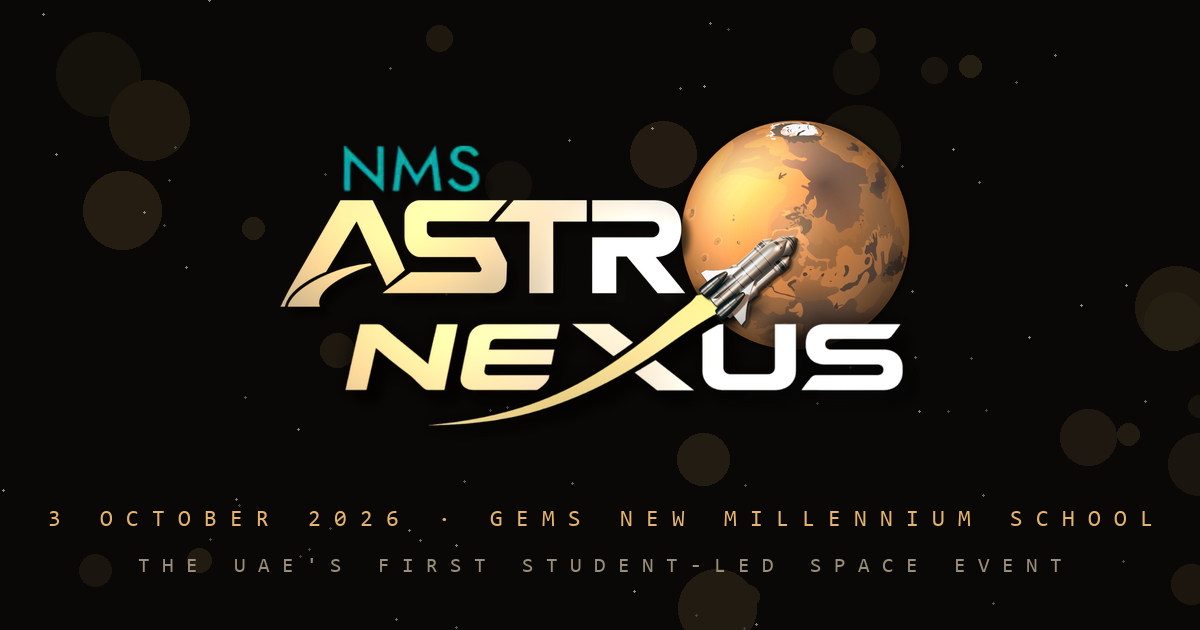
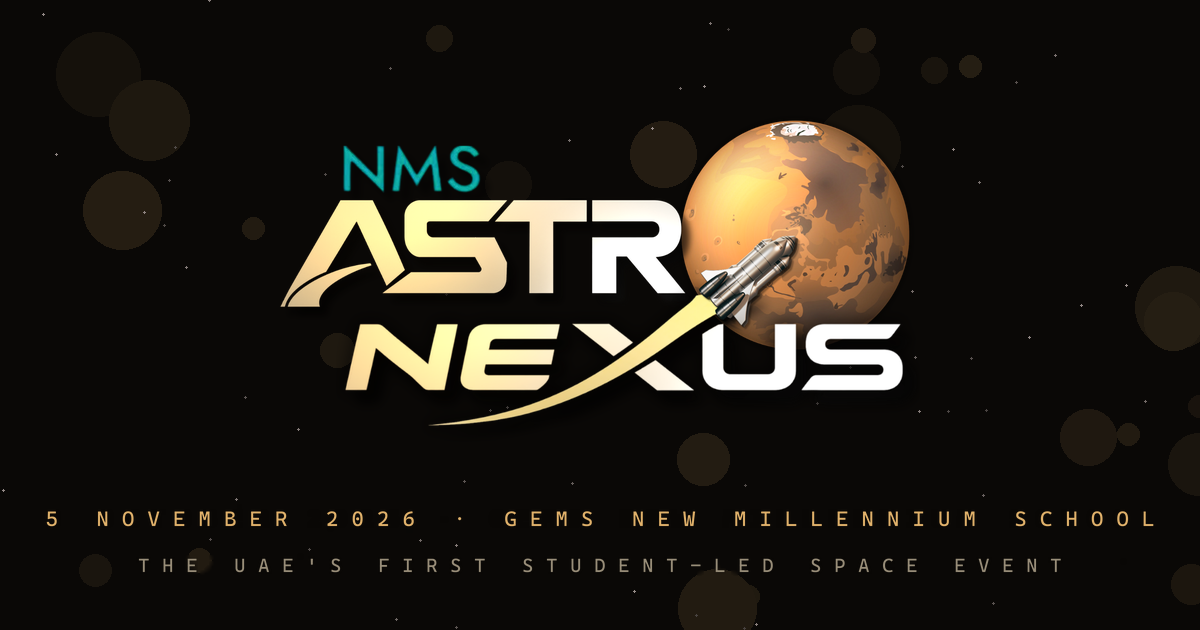
Add files via upload

diff --git a/index.html b/index.html
@@ -4,17 +4,17 @@
 <meta charset="UTF-8">
 <meta name="viewport" content="width=device-width, initial-scale=1.0">
 <title>AstroNexus</title>
-<meta name="description" content="NMS AstroNexus '26 — the UAE's first student-led space event. Four challenges, Grades 6–12. 3 October 2026, 8:00 AM – 1:30 PM, GEMS New Millennium School.">
+<meta name="description" content="NMS AstroNexus '26 — the UAE's first student-led space event. Four challenges, Grades 6–12. 5 November 2026, 8:00 AM – 1:30 PM, GEMS New Millennium School.">
 <meta property="og:type" content="website">
 <meta property="og:site_name" content="NMS AstroNexus">
 <meta property="og:title" content="NMS AstroNexus '26">
-<meta property="og:description" content="The UAE's first student-led space event — four challenges, Grades 6–12. 3 October 2026, GEMS New Millennium School.">
+<meta property="og:description" content="The UAE's first student-led space event — four challenges, Grades 6–12. 5 November 2026, GEMS New Millennium School.">
 <link rel="canonical" href="https://astronexusnms.com/">
 <meta property="og:url" content="https://astronexusnms.com/">
-<meta property="og:image" content="https://astronexusnms.com/og-card.png">
+<meta property="og:image" content="https://astronexusnms.com/og-card.png?v=2">
 <meta property="og:image:width" content="1200">
 <meta property="og:image:height" content="630">
-<meta property="og:image:alt" content="NMS AstroNexus '26 - 3 October 2026, GEMS New Millennium School">
+<meta property="og:image:alt" content="NMS AstroNexus '26 - 5 November 2026, GEMS New Millennium School">
 <meta name="twitter:card" content="summary_large_image">
 <script type="application/ld+json">
 {"@context":"https://schema.org","@type":"Event","name":"NMS AstroNexus '26","url":"https://astronexusnms.com/",
@@ -1255,7 +1255,7 @@
         <a class="wipe" href="launchx.html">LaunchX</a>
         <a class="wipe" href="helioscale.html">HelioScale</a>
       </div>
-      <span>3 October 2026 &middot; GEMS New Millennium School &middot; Al Amal Space Club</span>
+      <span>5 November 2026 &middot; GEMS New Millennium School &middot; Al Amal Space Club</span>
     </div>
   </div>
 </footer>

diff --git a/starbase.html b/starbase.html
@@ -507,7 +507,7 @@ if (firebaseConfig.apiKey) {
   let userCb;
   api = {
     demo: true,
-    onUser: cb => { userCb = cb; let u = null; try { u = sessionStorage.getItem('anx-user'); } catch {} cb(u); },
+    onUser: cb => { userCb = cb; let u = null; try { u = sessionStorage.getItem('anx-user'); } catch {} setTimeout(() => cb(u)); },  // async like Firebase, so the whole script has loaded first
     login: async (id, pw) => { const L = read().logins || {}; if (!(ROLES.includes(id) && pw.trim().toLowerCase() === 'demo') && !(L[id] && L[id] === pw)) throw new Error('auth/invalid-credential'); try { sessionStorage.setItem('anx-user', id); } catch {} userCb(id); },
     logout: async () => { try { sessionStorage.removeItem('anx-user'); } catch {} userCb(null); },
     anon: async () => {},

diff --git a/helioscale.html b/helioscale.html
@@ -546,7 +546,7 @@
 
 <main class="page">
 
-  <p class="eyebrow" data-reveal="fadeUp">Sub-Event &middot; Grades 11&ndash;12 or Equivalent &middot; 3 October 2026</p>
+  <p class="eyebrow" data-reveal="fadeUp">Sub-Event &middot; Grades 11&ndash;12 or Equivalent &middot; 5 November 2026</p>
   <h1 data-reveal="fadeUp" data-reveal-split="words" data-reveal-stagger="0.09">Helio<em>Scale</em></h1>
   <p class="subtitle" data-reveal="fadeUp" data-reveal-split="lines" data-reveal-delay="0.1">A software-driven solar data analysis challenge.</p>
 

diff --git a/terrafab.html b/terrafab.html
@@ -561,7 +561,7 @@
 
 <main class="page">
 
-  <p class="eyebrow" data-reveal="fadeUp">Sub-Event &middot; Grades 7&ndash;8 or Equivalent &middot; 3 October 2026</p>
+  <p class="eyebrow" data-reveal="fadeUp">Sub-Event &middot; Grades 7&ndash;8 or Equivalent &middot; 5 November 2026</p>
   <h1 data-reveal="fadeUp" data-reveal-split="words" data-reveal-stagger="0.09">Terra<em>Fab</em></h1>
   <p class="subtitle" data-reveal="fadeUp" data-reveal-split="lines" data-reveal-delay="0.1">Light-routing optics &amp; interference challenge.</p>
 

diff --git a/lostinorbit.html b/lostinorbit.html
@@ -539,7 +539,7 @@
 
 <main class="page">
 
-  <p class="eyebrow" data-reveal="fadeUp">Sub-Event &middot; Grade 6 or Equivalent &middot; 3 October 2026</p>
+  <p class="eyebrow" data-reveal="fadeUp">Sub-Event &middot; Grade 6 or Equivalent &middot; 5 November 2026</p>
   <h1 data-reveal="fadeUp" data-reveal-split="words" data-reveal-stagger="0.09">Lost<em>InOrbit</em></h1>
   <p class="subtitle" data-reveal="fadeUp" data-reveal-split="lines" data-reveal-delay="0.1">Orbital crisis &amp; satellite rescue challenge.</p>
 

diff --git a/launchx.html b/launchx.html
@@ -539,7 +539,7 @@
 
 <main class="page">
 
-  <p class="eyebrow" data-reveal="fadeUp">Sub-Event &middot; Grades 9&ndash;10 or Equivalent &middot; 3 October 2026</p>
+  <p class="eyebrow" data-reveal="fadeUp">Sub-Event &middot; Grades 9&ndash;10 or Equivalent &middot; 5 November 2026</p>
   <h1 data-reveal="fadeUp" data-reveal-split="words" data-reveal-stagger="0.09">Launch<em>X</em></h1>
   <p class="subtitle" data-reveal="fadeUp" data-reveal-split="lines" data-reveal-delay="0.1">Design your own rocket.</p>
 

diff --git a/README.md b/README.md
@@ -3,7 +3,7 @@
 Website for **AstroNexus '26** — the UAE's first student-led space event, run by the
 Al Amal Space Club and the Physics Department at GEMS New Millennium School.
 
-**3 October 2026 · 8:00 AM – 1:30 PM**
+**5 November 2026 · 8:00 AM – 1:30 PM**
 
 ## The four challenges
 
